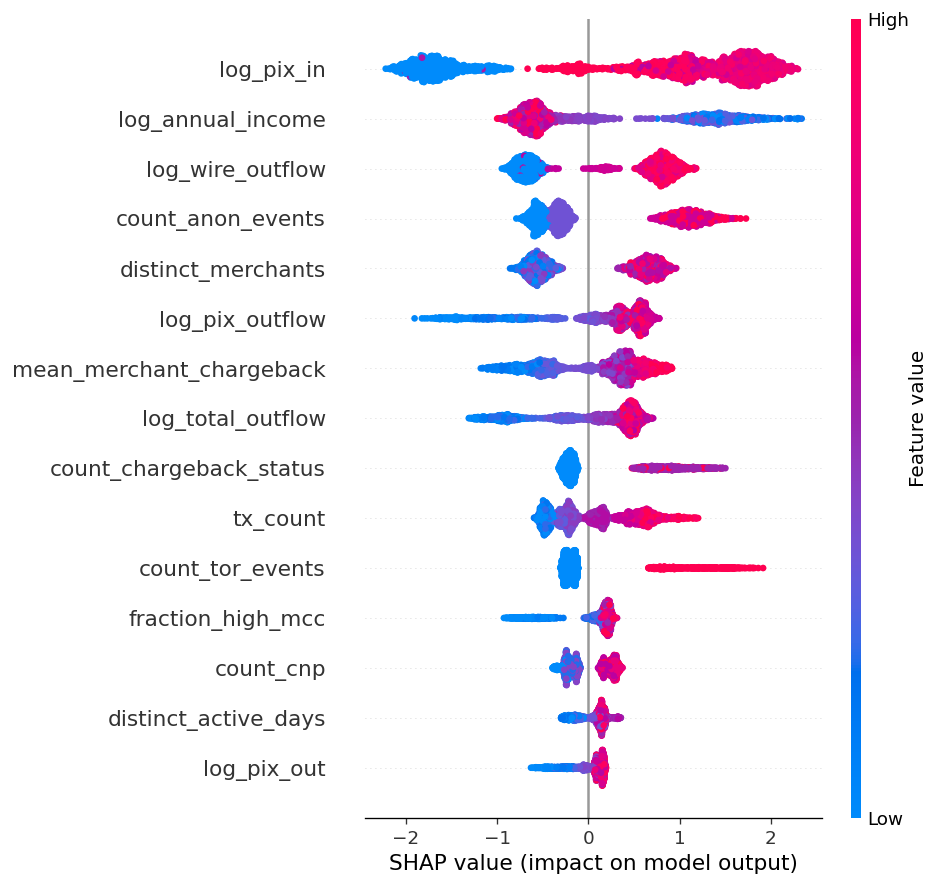
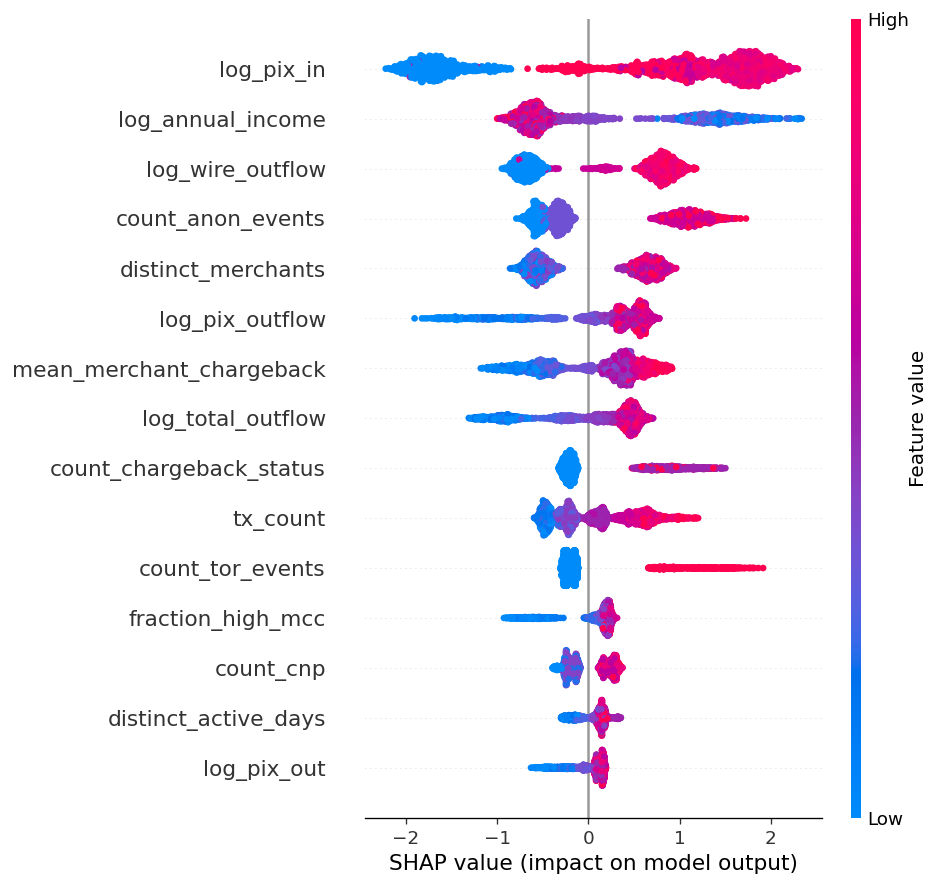
Adjustments within the ML SHAP/PCA

diff --git a/src/ml/ml_pipeline.py b/src/ml/ml_pipeline.py
@@ -49,7 +49,10 @@ FEAT_END    = pd.Timestamp("2025-11-01")   # exclusive
 LABEL_START = FEAT_START
 LABEL_END   = FEAT_END
 
-PHASE1_SUBJECTS = ["C102290", "C101848", "C102360"]
+PHASE1_SUBJECTS = [
+    "C100091", "C101208", "C101028", "C100837", "C101582",
+    "C102290", "C102093", "C100208", "C101445", "C101542",
+]
 
 
 # ─────────────────────────────────────────────────────────────────────────────

diff --git a/docs/phase3/Phase3_ML_Summary.md b/docs/phase3/Phase3_ML_Summary.md
@@ -90,15 +90,22 @@ Top drivers map cleanly to AML typologies: PIX inflow, income mismatch, Wire out
 
 **Income ablation.** Dropping `log_annual_income` changes PR-AUC by +0.0006 with ranking stability of 0.957. Income is not driving predictions.
 
-### Local explanations — Phase 1 SAR subjects
+### Local explanations — Phase 1 cohort subjects
 
-| Subject | Probability | Top SHAP drivers |
-|---|---|---|
-| **C102290** | 0.9998 | `log_pix_in` · `log_annual_income` · `count_anon_events` |
-| **C101848** | 0.9856 | `log_annual_income` · `log_pix_in` · `count_chargeback_status` |
-| **C102360** | 0.9621 | `log_annual_income` · `log_wire_outflow` · `log_pix_in` |
+| Subject | Priority | Probability | Top SHAP drivers |
+|---|---|---|---|
+| **C100091** | #1 · 80.46 | 0.9962 | `log_pix_in` · `log_annual_income` · `log_wire_outflow` |
+| **C101208** | #2 · 74.39 | 0.9889 | `log_pix_in` · `count_anon_events` · `tx_count` |
+| **C101028** | #3 · 74.36 | 0.9862 | `log_pix_in` · `count_anon_events` · `count_chargeback_status` |
+| **C100837** | #4 · 67.40 | 0.9996 | `log_pix_in` · `log_annual_income` · `count_tor_events` |
+| **C101582** | #5 · 66.96 | 0.9955 | `log_pix_in` · `log_annual_income` · `count_anon_events` |
+| **C102290** | #6 · 66.00 ★ | 0.9998 | `log_pix_in` · `log_annual_income` · `count_anon_events` |
+| **C102093** | #7 · 64.59 | 0.9991 | `log_pix_in` · `log_annual_income` · `count_anon_events` |
+| **C100208** | #8 · 63.20 | 0.9996 | `log_pix_in` · `log_annual_income` · `count_anon_events` |
+| **C101445** | #9 · 62.49 | 0.9987 | `log_pix_in` · `log_wire_outflow` · `count_anon_events` |
+| **C101542** | #10 · 61.79 | 0.9993 | `log_annual_income` · `count_anon_events` · `log_pix_in` |
 
-All three match the manually authored SAR reasoning: anonymization + income mismatch + passthrough for C102290; income mismatch + chargeback + Wire link for C101848; extreme income mismatch + Wire (network signal) for C102360.
+All 10 subjects score ≥ 0.986 ML probability. SHAP drivers align with the SAR reasoning for each: PIX passthrough (`log_pix_in`), income mismatch (`log_annual_income`), anonymization events (`count_anon_events`), and wire outflow for subjects with network-link or wire sanctions events.
 
 ---
 
@@ -106,7 +113,7 @@ All three match the manually authored SAR reasoning: anonymization + income mism
 
 ![PCA — customer behavioral space (PC1 20.8 % + PC2 9.3 % variance)](../../outputs/figures/ml_pca_clusters.png)
 
-High-risk customers concentrate in the upper-right region of the projection. C102290, C101848, and C102360 sit within this concentrated band — confirming shared behavioral typologies, not isolated outliers.
+High-risk customers concentrate in the upper-right region of the projection. All 10 production top-10 subjects sit within this concentrated band — confirming shared behavioral typologies, not isolated outliers.
 
 ---
 
@@ -132,4 +139,4 @@ High-risk customers concentrate in the upper-right region of the projection. C10
 
 ## 8. Conclusion
 
-The ML layer is a defensible prioritization tool with three honest contributions: continuous ranking within rules-engine bands, per-customer SHAP attributions usable in SAR narratives, and a disagreement signal when ML and rules diverge on a specific customer. It does not beat the rule engine on labeled extremes — and is not framed as if it did. C102290 ranks #2 of 2,500 by ML probability, and SHAP drivers for all three Phase 1 SAR subjects reproduce the manual analyst reasoning. The pipeline is designed to be re-tuned, not rebuilt.
+The ML layer is a defensible prioritization tool with three honest contributions: continuous ranking within rules-engine bands, per-customer SHAP attributions usable in SAR narratives, and a disagreement signal when ML and rules diverge on a specific customer. It does not beat the rule engine on labeled extremes — and is not framed as if it did. C102290 ranks #2 of 2,500 by ML probability, and SHAP drivers for all 10 Phase 1 cohort subjects align with the manual analyst reasoning. The pipeline is designed to be re-tuned, not rebuilt.